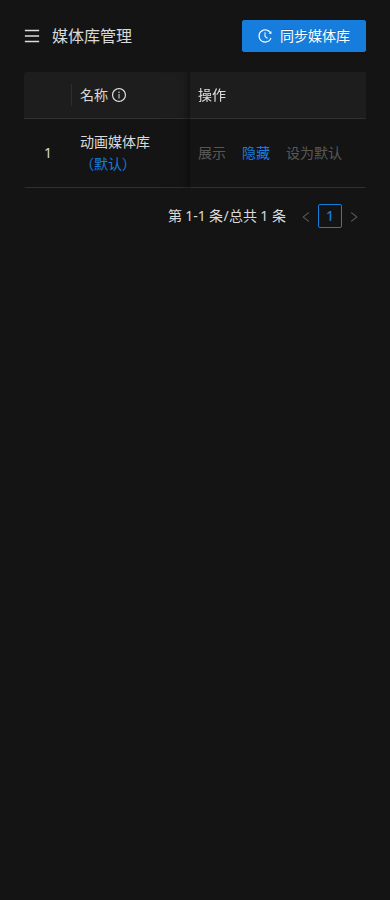
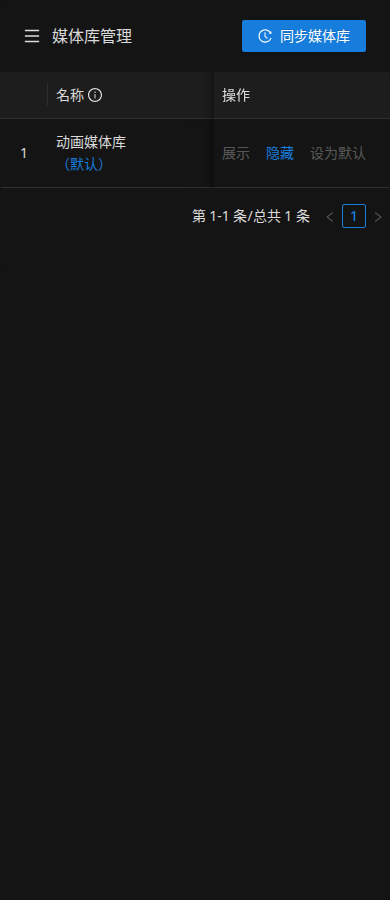
fix(admin): 让移动端媒体库表格铺满页面宽度

diff --git a/apps/admin/src/pages/folders/index.module.less b/apps/admin/src/pages/folders/index.module.less
@@ -3,6 +3,11 @@
 .root {
   @media @mobile {
     :global {
+      .ant-table-wrapper {
+        margin: 0 -24px;
+        max-width: calc(100% + 48px);
+      }
+
       .ant-pro-table-list-toolbar-container {
         flex-direction: row;
         flex-wrap: nowrap;
